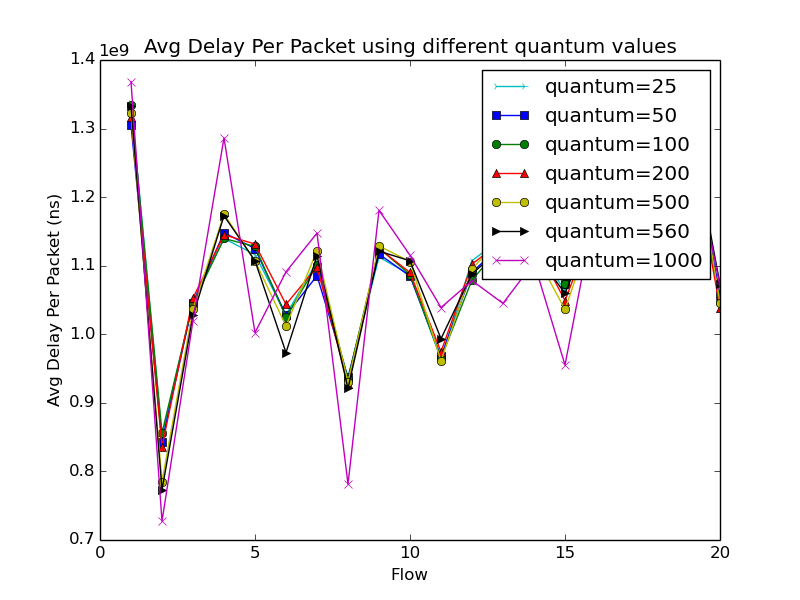
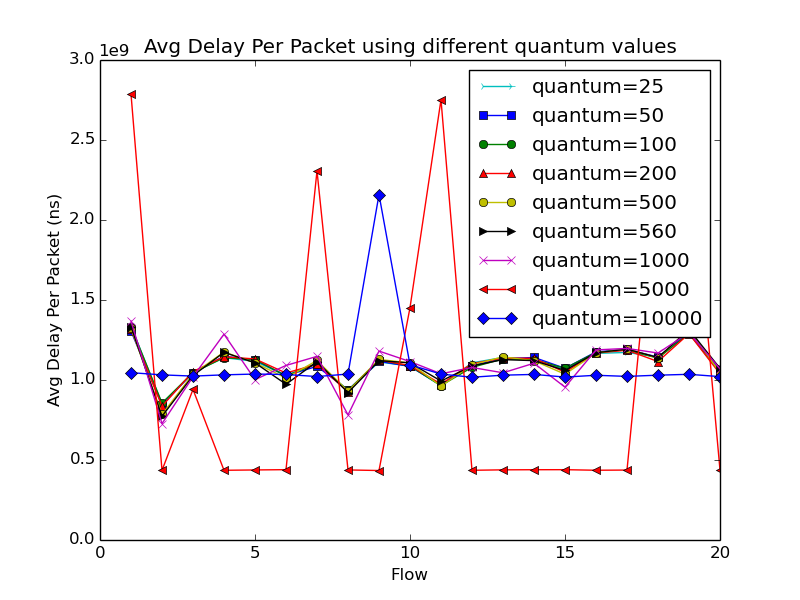
added 5k and 10k quantum into delay figure

diff --git a/scratch/plot_figures.py b/scratch/plot_figures.py
@@ -218,7 +218,7 @@ print('Saving ' + delayFileName)
 
 print("processing delay data for different quantum values...")
 
-files = ["drr_25.xml", "drr_50.xml", "drr_100.xml", "drr_200.xml", "drr_500.xml", "drr_560.xml", "drr_1000.xml"]
+files = ["drr_25.xml", "drr_50.xml", "drr_100.xml", "drr_200.xml", "drr_500.xml", "drr_560.xml", "drr_1000.xml", "drr_5000.xml", "drr_10000.xml"]
 dictionary_data = processDelayFiles(files)
 
 delayWithQuantumFileName = os.path.join(args.dir, 'figures/flows_delay_quantum_values.png')
@@ -230,6 +230,8 @@ drr200delay = dictionary_data[files[3]]
 drr500delay = dictionary_data[files[4]]
 drr560delay = dictionary_data[files[5]]
 drr1000delay = dictionary_data[files[6]]
+drr5000delay = dictionary_data[files[7]]
+drr10000delay = dictionary_data[files[8]]
 
 plt.figure()
 plt.plot(drr25delay.keys(), drr25delay.values(), 'c2-', label='quantum=25')
@@ -239,6 +241,8 @@ plt.plot(drr200delay.keys(), drr200delay.values(), 'r^-', label='quantum=200')
 plt.plot(drr500delay.keys(), drr500delay.values(), 'yo-', label='quantum=500')
 plt.plot(drr560delay.keys(), drr560delay.values(), 'k>-', label='quantum=560')
 plt.plot(drr1000delay.keys(), drr1000delay.values(), 'mx-', label='quantum=1000')
+plt.plot(drr5000delay.keys(), drr5000delay.values(), 'r<-', label='quantum=5000')
+plt.plot(drr10000delay.keys(), drr10000delay.values(), 'bD-', label='quantum=10000')
 plt.legend(loc='upper right')
 plt.ylabel('Avg Delay Per Packet (ns)')
 plt.xlabel('Flow')
